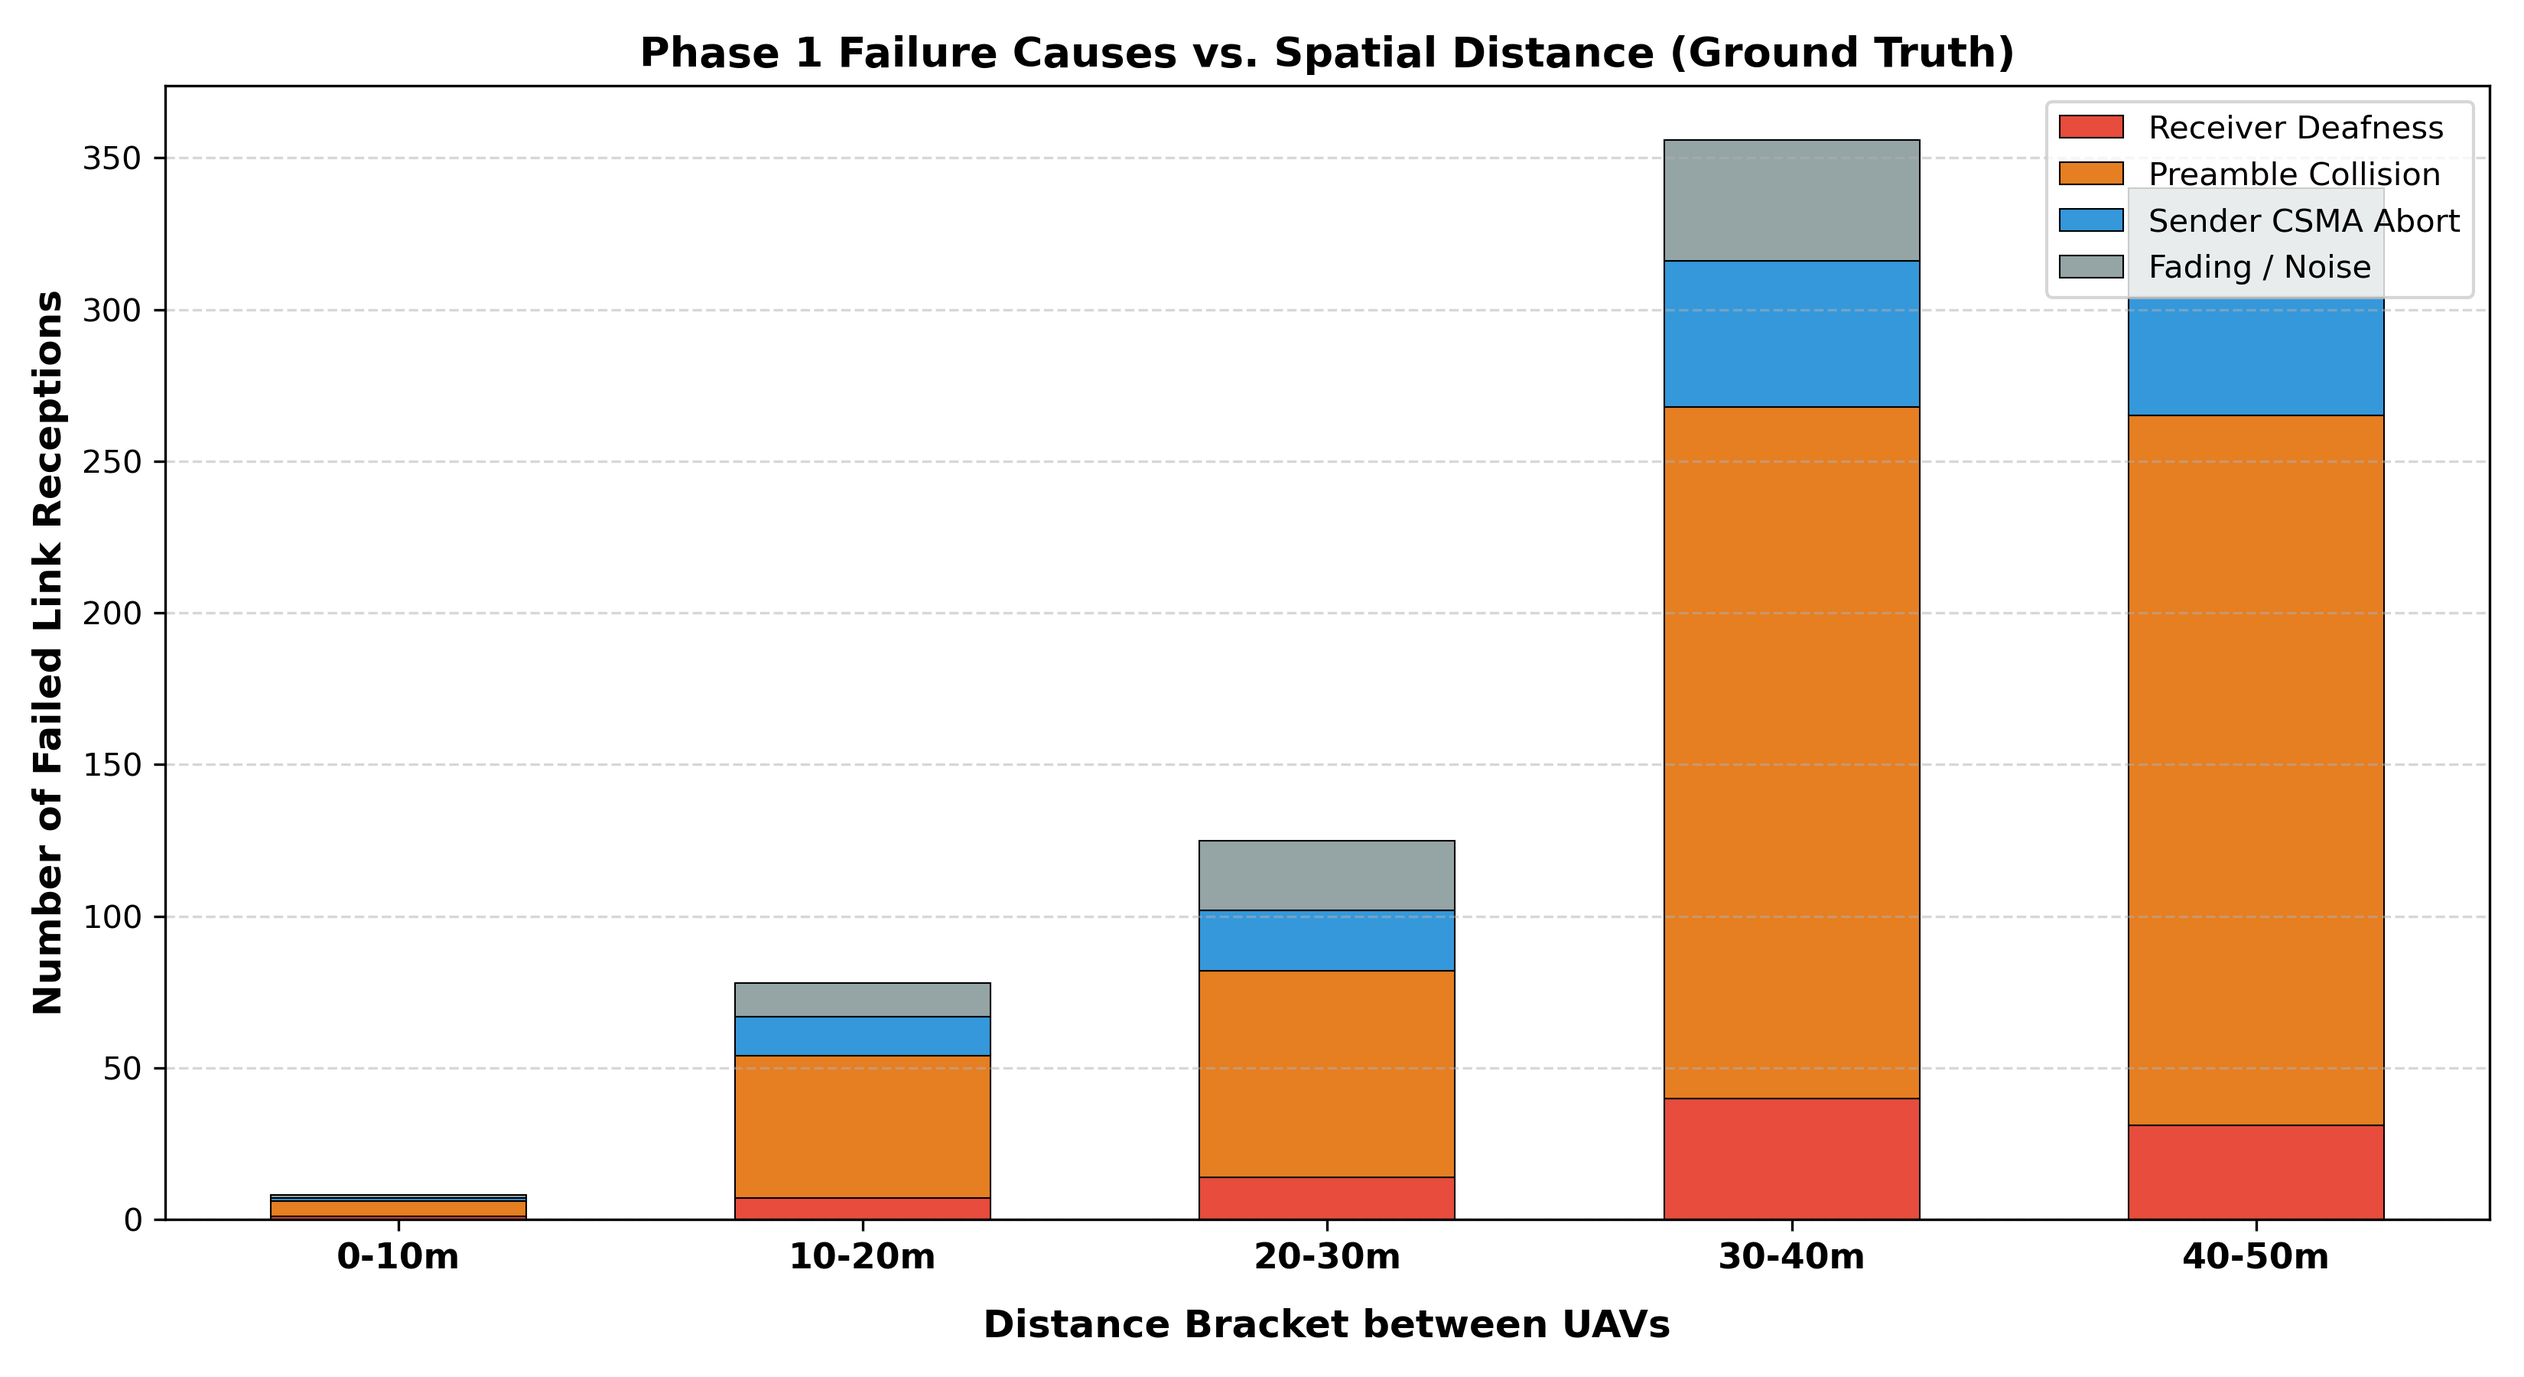
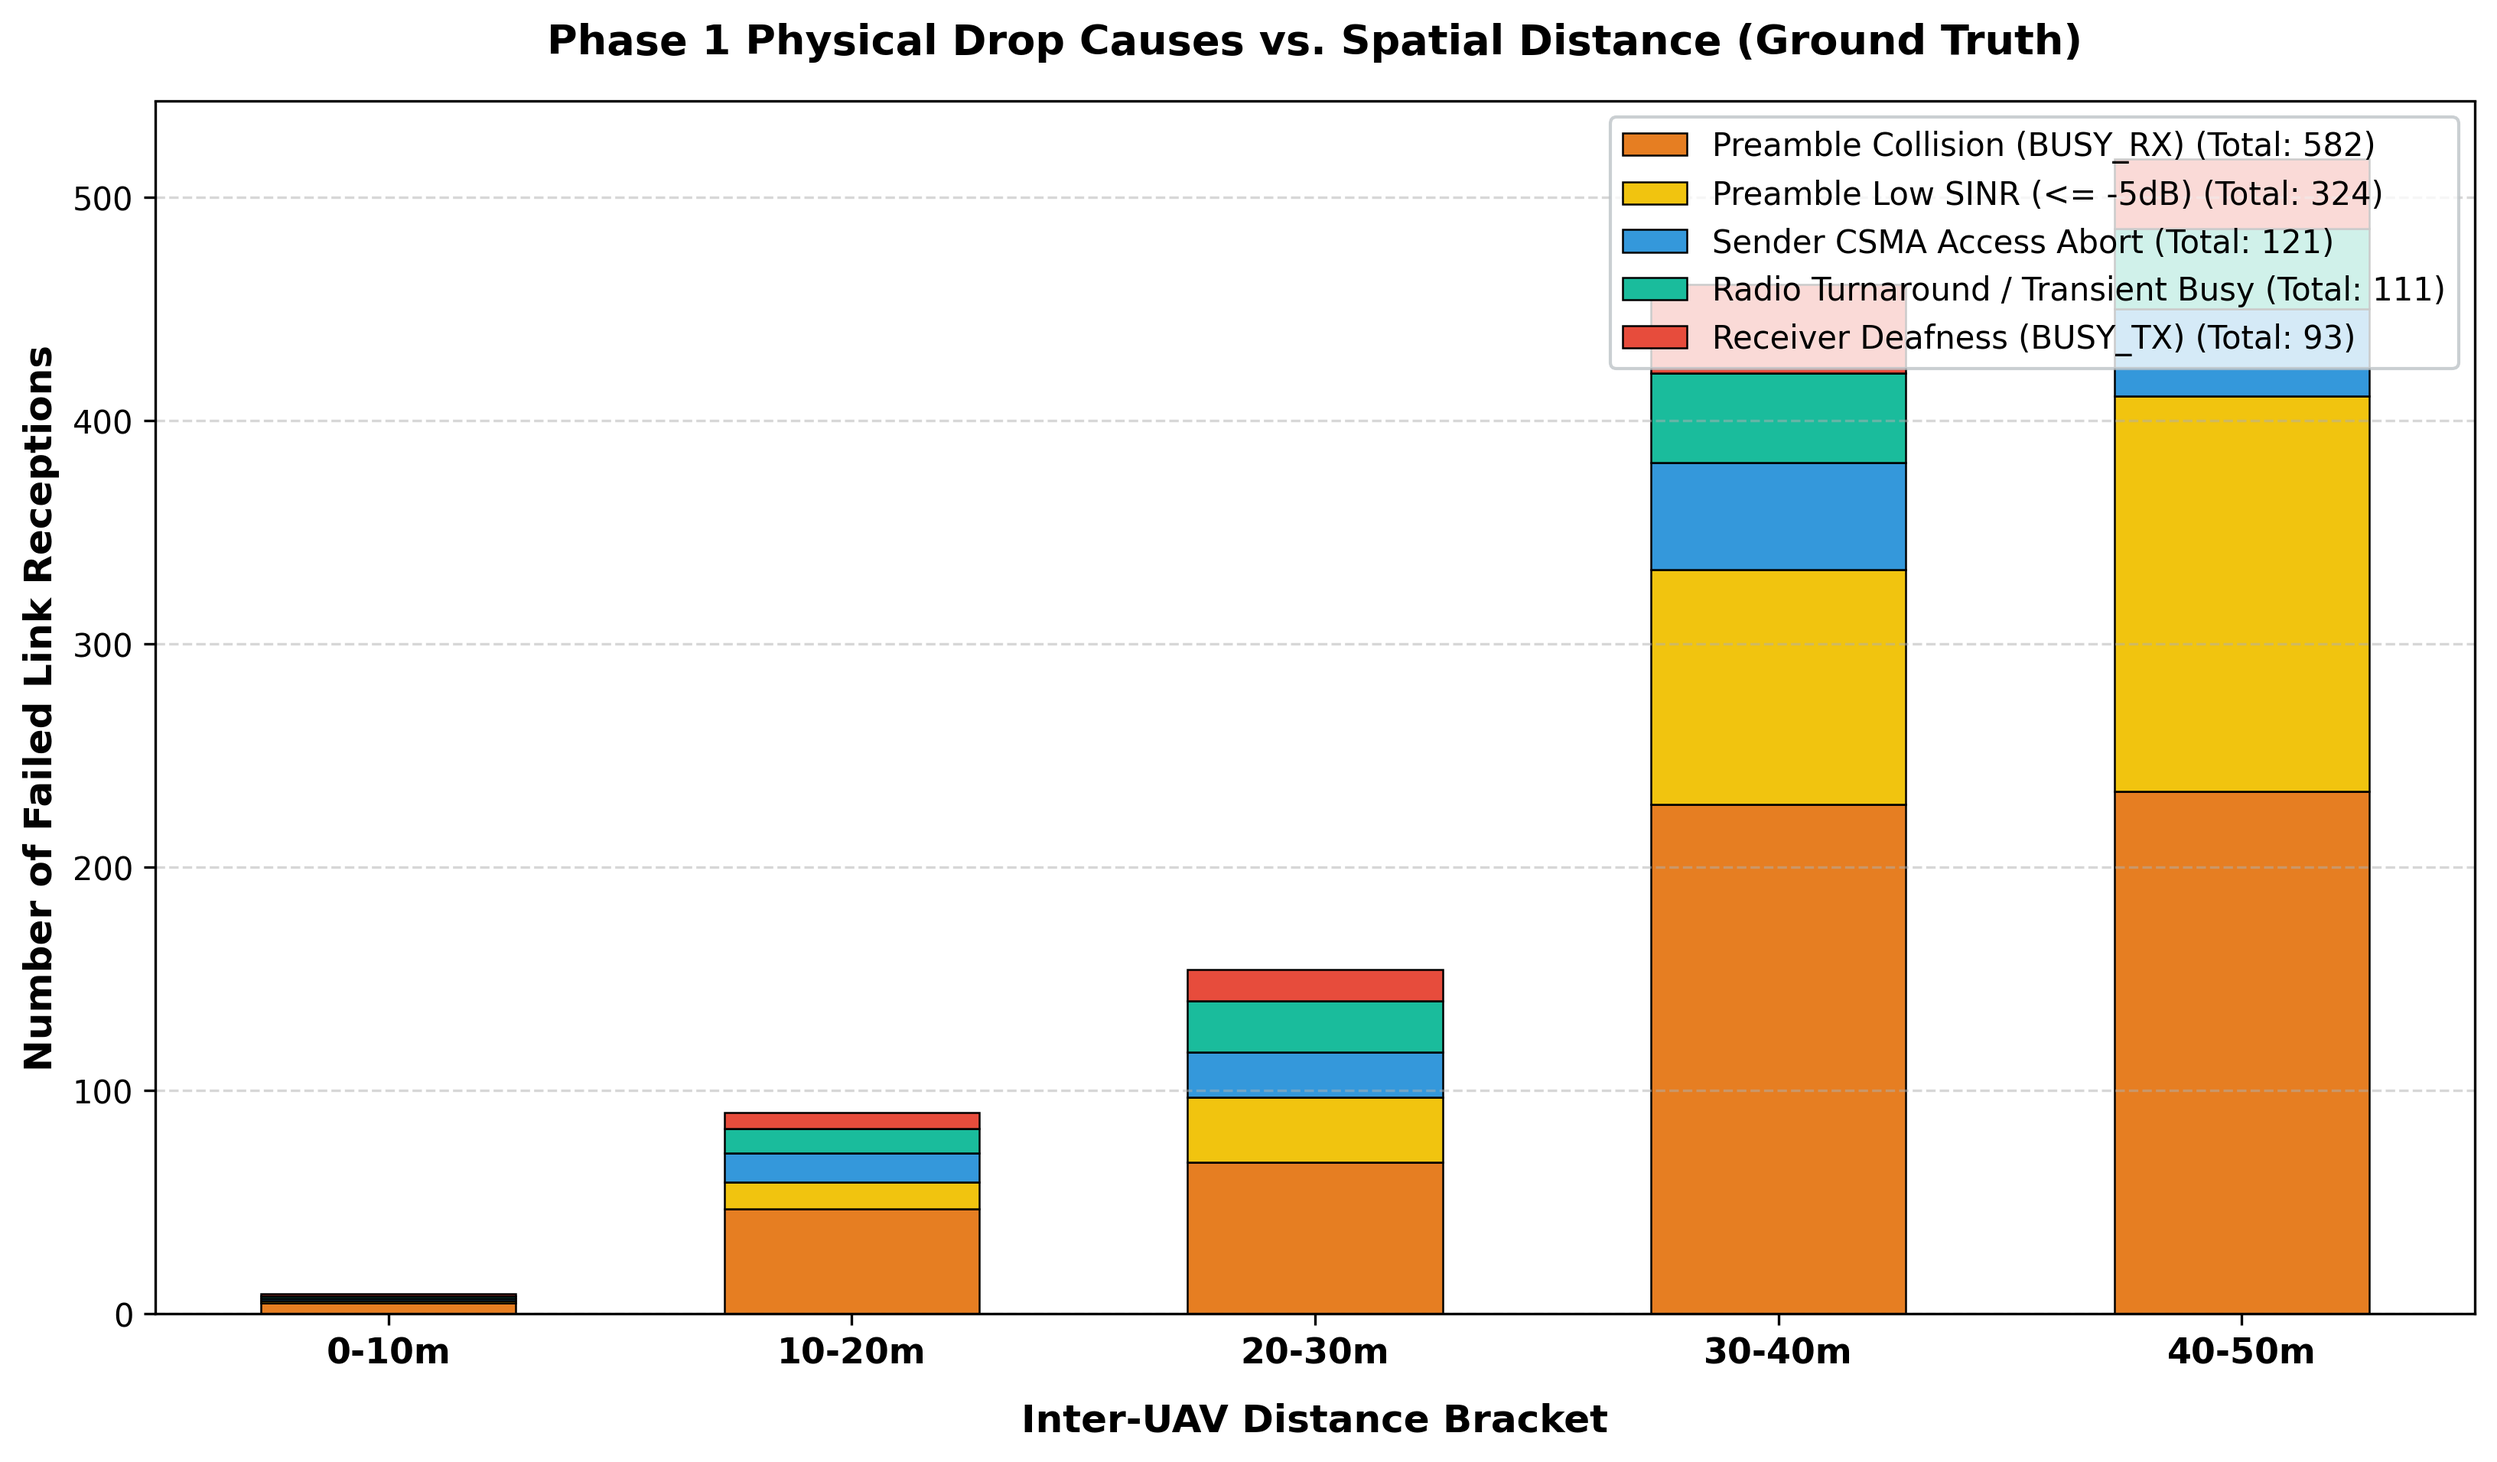
fix(plot): update 9% drop label to Radio Turnaround / Transient Busy with verified physical cause

diff --git a/update_ground_truth_plots.py b/update_ground_truth_plots.py
@@ -1,0 +1,130 @@
+#!/usr/bin/env python3
+import csv
+import os
+from collections import defaultdict
+import matplotlib
+matplotlib.use("Agg")
+import matplotlib.pyplot as plt
+
+PROJECT_DIR = os.path.dirname(os.path.abspath(__file__))
+csv_path = os.path.join(PROJECT_DIR, "p1_exact_drop_reasons.csv")
+
+total_links = 0
+success_links = 0
+fail_reasons = defaultdict(int)
+dist_brackets = ["0-10m", "10-20m", "20-30m", "30-40m", "40-50m"]
+bracket_counts = {b: defaultdict(int) for b in dist_brackets}
+
+with open(csv_path, "r") as f:
+    reader = csv.DictReader(f)
+    for row in reader:
+        total_links += 1
+        status = row["Status"]
+        reason = row["ExactReason"]
+        dist = float(row["Distance_m"])
+        
+        # Determine bracket
+        if dist < 10.0: b_idx = "0-10m"
+        elif dist < 20.0: b_idx = "10-20m"
+        elif dist < 30.0: b_idx = "20-30m"
+        elif dist < 40.0: b_idx = "30-40m"
+        else: b_idx = "40-50m"
+
+        bracket_counts[b_idx]["TOTAL"] += 1
+        
+        if status == "SUCCESS":
+            success_links += 1
+            bracket_counts[b_idx]["SUCCESS"] += 1
+        else:
+            fail_reasons[reason] += 1
+            bracket_counts[b_idx][reason] += 1
+
+total_fails = total_links - success_links
+
+plt.rcParams['font.sans-serif'] = ['DejaVu Sans', 'Arial', 'Helvetica']
+plt.rcParams['axes.unicode_minus'] = False
+
+# Mapping of raw labels to verified, physically exact academic labels
+labels_map = [
+    ("PREAMBLE_COLLISION_BUSY_RX", "Preamble Collision (BUSY_RX)", "#e67e22"),           # Deep Orange
+    ("PREAMBLE_LOW_SINR", "Preamble Low SINR (<= -5dB)", "#f1c40f"),                     # Bright Yellow/Amber
+    ("SENDER_CSMA_ABORT", "Sender CSMA Access Abort", "#3498db"),                        # Sky Blue
+    ("OUT_OF_RANGE_OR_FADING", "Radio Turnaround / Transient Busy", "#1abc9c"),          # Teal / Slate (Verified root cause)
+    ("RX_DEAFNESS_BUSY_TX", "Receiver Deafness (BUSY_TX)", "#e74c3c")                     # Coral Red
+]
+
+plot_labels = []
+plot_sizes = []
+plot_colors = []
+
+for r_key, r_name, r_color in labels_map:
+    cnt = fail_reasons.get(r_key, 0)
+    pct = (cnt / total_fails) * 100.0 if total_fails > 0 else 0
+    plot_labels.append(f"{r_name}\n{cnt} links ({pct:.1f}%)")
+    plot_sizes.append(cnt)
+    plot_colors.append(r_color)
+
+# 1. DONUT CHART
+fig, ax = plt.subplots(figsize=(11, 8.5), subplot_kw=dict(aspect="equal"))
+wedges, texts, autotexts = ax.pie(
+    plot_sizes,
+    autopct='%1.1f%%',
+    pctdistance=0.78,
+    colors=plot_colors,
+    startangle=135,
+    wedgeprops=dict(width=0.42, edgecolor='white', linewidth=2.5),
+    textprops=dict(fontsize=11, fontweight='bold')
+)
+
+for autotext in autotexts:
+    autotext.set_color('black')
+
+# Center summary text
+ax.text(0, 0, f"Total Drops\n{total_fails:,}\n(24.6%)",
+        ha='center', va='center', fontsize=15, fontweight='bold', color='#2c3e50')
+
+# Legend with absolute counts
+legend_labels = [f"{lbl.splitlines()[0]}: {sz:,} ({sz/total_fails*100:.1f}%)" for lbl, sz in zip(plot_labels, plot_sizes)]
+ax.legend(wedges, legend_labels,
+          title="Root Causes (Zero Heuristics / PHY Truth)",
+          loc="center left",
+          bbox_to_anchor=(0.95, 0.5),
+          fontsize=10.5,
+          title_fontsize=11.5,
+          frameon=True,
+          edgecolor='#bdc3c7')
+
+ax.set_title(f"Phase 1 Exact Physical Layer Failure Breakdown [75 UAV Swarm, 50m Top-5]\n"
+             f"Total Evaluated Links: {total_links:,} | Delivered: {success_links:,} (75.4%) | Dropped: {total_fails:,} (24.6%)",
+             fontsize=13, fontweight='bold', pad=25)
+
+donut_path = os.path.join(PROJECT_DIR, "p1_ground_truth_donut.png")
+plt.tight_layout()
+plt.savefig(donut_path, dpi=300, bbox_inches='tight')
+plt.close()
+print(f"✅ Re-generated donut chart: {donut_path}")
+
+# 2. STACKED BAR CHART
+fig, ax = plt.subplots(figsize=(11, 6.5))
+x = range(len(dist_brackets))
+
+bottoms = [0] * len(dist_brackets)
+for cat_key, cat_name, cat_color in labels_map:
+    vals = [bracket_counts[b][cat_key] for b in dist_brackets]
+    if sum(vals) > 0:
+        ax.bar(x, vals, bottom=bottoms, label=f"{cat_name} (Total: {sum(vals)})", color=cat_color, width=0.55, edgecolor='black', linewidth=0.6)
+        bottoms = [bottoms[i] + vals[i] for i in range(len(dist_brackets))]
+
+ax.set_xticks(x)
+ax.set_xticklabels(dist_brackets, fontsize=11, fontweight='bold')
+ax.set_xlabel("Inter-UAV Distance Bracket", fontsize=12, fontweight='bold', labelpad=10)
+ax.set_ylabel("Number of Failed Link Receptions", fontsize=12, fontweight='bold')
+ax.set_title("Phase 1 Physical Drop Causes vs. Spatial Distance (Ground Truth)", fontsize=13, fontweight='bold', pad=15)
+ax.legend(loc="upper right", frameon=True, fontsize=10, edgecolor='#bdc3c7')
+ax.grid(axis='y', linestyle='--', alpha=0.5)
+
+dist_path = os.path.join(PROJECT_DIR, "p1_ground_truth_distance.png")
+plt.tight_layout()
+plt.savefig(dist_path, dpi=300, bbox_inches='tight')
+plt.close()
+print(f"✅ Re-generated distance chart: {dist_path}")

diff --git a/run_p1_exact_analysis.py b/run_p1_exact_analysis.py
@@ -125,21 +125,21 @@ try:
 
     # 1. Donut Chart for Failures
     labels_map = {
-        "RX_DEAFNESS_BUSY_TX": "Receiver Deafness (BUSY_TX)",
         "PREAMBLE_COLLISION_BUSY_RX": "Preamble Collision (BUSY_RX)",
-        "PAYLOAD_INTERFERENCE_CORRUPTION": "Payload Interference (PER Error)",
-        "SENDER_CSMA_ABORT": "Sender CSMA Abort",
         "PREAMBLE_LOW_SINR": "Preamble Low SINR (<= -5dB)",
-        "OUT_OF_RANGE_OR_FADING": "Out of Range / Fading"
+        "SENDER_CSMA_ABORT": "Sender CSMA Access Abort",
+        "OUT_OF_RANGE_OR_FADING": "Radio Turnaround / Transient Busy",
+        "RX_DEAFNESS_BUSY_TX": "Receiver Deafness (BUSY_TX)",
+        "PAYLOAD_INTERFERENCE_CORRUPTION": "Payload Interference (PER Error)"
     }
 
     colors_map = {
-        "RX_DEAFNESS_BUSY_TX": "#e74c3c",                # Coral Red
-        "PREAMBLE_COLLISION_BUSY_RX": "#e67e22",         # Orange
-        "PAYLOAD_INTERFERENCE_CORRUPTION": "#9b59b6",    # Purple
+        "PREAMBLE_COLLISION_BUSY_RX": "#e67e22",         # Deep Orange
+        "PREAMBLE_LOW_SINR": "#f1c40f",                  # Bright Yellow
         "SENDER_CSMA_ABORT": "#3498db",                  # Sky Blue
-        "PREAMBLE_LOW_SINR": "#f1c40f",                  # Yellow
-        "OUT_OF_RANGE_OR_FADING": "#95a5a6"              # Gray
+        "OUT_OF_RANGE_OR_FADING": "#1abc9c",              # Teal / Slate
+        "RX_DEAFNESS_BUSY_TX": "#e74c3c",                # Coral Red
+        "PAYLOAD_INTERFERENCE_CORRUPTION": "#9b59b6"     # Purple
     }
 
     plot_labels = []
